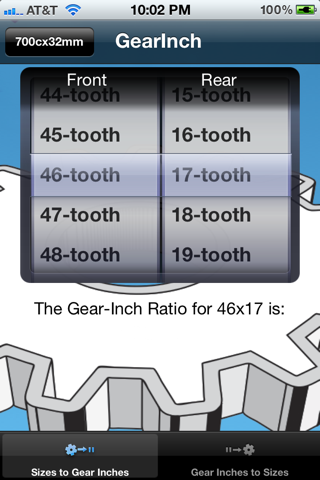
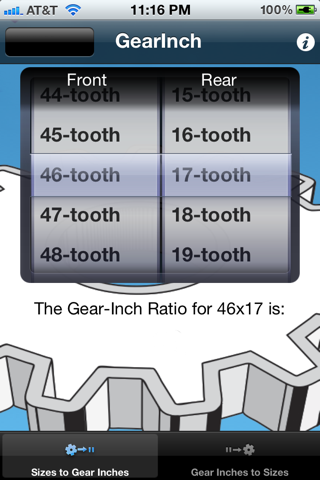
Added help page, accurate splash screen

diff --git a/GearInch/GearInchAboutViewController.m b/GearInch/GearInchAboutViewController.m
@@ -1,0 +1,79 @@
+//
+//  GearInchAboutViewController.m
+//  GearInch
+//
+//  Created by Erik Hope on 12/12/11.
+//  Copyright (c) 2011 __MyCompanyName__. All rights reserved.
+//
+
+#import "GearInchAboutViewController.h"
+#import <QuartzCore/QuartzCore.h>
+
+@implementation GearInchAboutViewController
+@synthesize textBox;
+
+
+- (id)initWithNibName:(NSString *)nibNameOrNil bundle:(NSBundle *)nibBundleOrNil
+{
+    self = [super initWithNibName:nibNameOrNil bundle:nibBundleOrNil];
+    if (self) {
+        // Custom initialization
+    }
+    return self;
+}
+
+- (void)didReceiveMemoryWarning
+{
+    // Releases the view if it doesn't have a superview.
+    [super didReceiveMemoryWarning];
+    
+    // Release any cached data, images, etc that aren't in use.
+}
+
+
+-(void)dismissAbout:(UIButton *)button
+{
+    [self dismissModalViewControllerAnimated:YES];
+}
+
+#pragma mark - View lifecycle
+
+/*
+// Implement loadView to create a view hierarchy programmatically, without using a nib.
+- (void)loadView
+{
+}
+*/
+
+
+// Implement viewDidLoad to do additional setup after loading the view, typically from a nib.
+- (void)viewDidLoad
+{
+    [super viewDidLoad];
+    textBox.layer.cornerRadius = 10;
+    textBox.alpha = 0.9;
+    textBox.layer.borderWidth = 1.0;
+    textBox.layer.shadowOffset = CGSizeMake(20.0, 20.0);
+    textBox.layer.shadowOpacity = 1;
+    textBox.layer.shadowRadius = 10;
+    textBox.layer.shadowColor = [UIColor blackColor].CGColor;
+    textBox.text = @"GearInch (c) 2011 Erik Hope \n\nWhat is a gear inch ratio? \n\nThe gear inch ratio of a bicycle is a measure of how low or high a gear is. The higher the ratio, the higher the gear, and the farther your bike travels with each rotation of the pedals. Use GearInch to determine which cog and chainwheel sizes you need to achieve your desired ratio, or to calculate what the ratio of a given cog and chainwheel is.";
+
+
+}
+
+
+- (void)viewDidUnload
+{
+    [super viewDidUnload];
+    // Release any retained subviews of the main view.
+    // e.g. self.myOutlet = nil;
+}
+
+- (BOOL)shouldAutorotateToInterfaceOrientation:(UIInterfaceOrientation)interfaceOrientation
+{
+    // Return YES for supported orientations
+    return (interfaceOrientation == UIInterfaceOrientationPortrait);
+}
+
+@end

diff --git a/GearInch/RatioToGearsViewController.m b/GearInch/RatioToGearsViewController.m
@@ -120,6 +120,7 @@ pickerBackground;
     lastSelectedRatio = row;
     int ratio = row+31;
     [self calculateSizesForRatio:ratio];
+
     [ratioList scrollToRowAtIndexPath:[NSIndexPath indexPathForRow:0 inSection:0] 
                      atScrollPosition:UITableViewScrollPositionNone animated:YES];
 }
@@ -165,10 +166,20 @@ pickerBackground;
     
     if (cell == nil) 
     {
-        cell = [[UITableViewCell alloc] initWithFrame:CGRectZero reuseIdentifier:@"cell"];
+        cell = [[UITableViewCell alloc] initWithStyle:UITableViewCellStyleDefault reuseIdentifier:@"cell"];
+
     }
     
 	return cell;
 }
+
+-(void)infoButtonClicked:(UIButton *)infoButton
+{
+    UIAlertView *alert = [[UIAlertView alloc] initWithTitle:@"GearInch"
+                                                    message:@"hi" delegate:nil cancelButtonTitle:@"OK"
+                                          otherButtonTitles:nil];
+    [alert show];
+}
+
 
 @end

diff --git a/GearInch/GearsToRatioViewController.m b/GearInch/GearsToRatioViewController.m
@@ -142,6 +142,13 @@ const int kCogComponent = 1;
 }
 
 
+-(void)infoButtonClicked:(UIButton *)infoButton
+{
+    UIAlertView *alert = [[UIAlertView alloc] initWithTitle:@"GearInch\nCopyright (c) 2011 Erik Hope."
+                                                    message:@"hi" delegate:nil cancelButtonTitle:@"OK"
+                                          otherButtonTitles:nil];
+    [alert show];
+}
 
 - (BOOL)shouldAutorotateToInterfaceOrientation:(UIInterfaceOrientation)interfaceOrientation
 {

diff --git a/GearInch/GearsToRatioViewController.h b/GearInch/GearsToRatioViewController.h
@@ -7,6 +7,7 @@
 //
 
 #import <UIKit/UIKit.h>
+
 @class GearInchSettingsViewController;
 
 @interface GearsToRatioViewController : UIViewController
@@ -16,6 +17,7 @@
     CGFloat diameter;
 }
 
+-(IBAction)infoButtonClicked:(UIButton*)infoButton;
 
 @property (strong, nonatomic) IBOutlet UIViewController *settingsViewController;
 @property (strong, nonatomic) IBOutlet UIPickerView *sizePicker;

diff --git a/GearInch/GearInchAboutViewController.h b/GearInch/GearInchAboutViewController.h
@@ -1,0 +1,17 @@
+//
+//  GearInchAboutViewController.h
+//  GearInch
+//
+//  Created by Erik Hope on 12/12/11.
+//  Copyright (c) 2011 __MyCompanyName__. All rights reserved.
+//
+
+#import <UIKit/UIKit.h>
+
+@interface GearInchAboutViewController : UIViewController
+
+-(IBAction)dismissAbout:(UIButton*)button;
+
+@property (strong, nonatomic) IBOutlet UITextView *textBox;
+
+@end

diff --git a/GearInch/RatioToGearsViewController.h b/GearInch/RatioToGearsViewController.h
@@ -21,6 +21,7 @@ UITableViewDataSource, UITableViewDelegate>
 }
 
 -(void)calculateSizesForRatio:(int)ratio;
+-(IBAction)infoButtonClicked:(UIButton *)infoButton;
 
 @property (strong, nonatomic) IBOutlet UIViewController *settingsViewController;
 @property (nonatomic, strong) IBOutlet UIPickerView *gearInchSelector;

diff --git a/GearInch/GearInchSettingsViewController.m b/GearInch/GearInchSettingsViewController.m
@@ -58,7 +58,7 @@ static NSArray *rimDiameterTexts = nil;
 {
     // Releases the view if it doesn't have a superview.
     [super didReceiveMemoryWarning];
-    
+
     // Release any cached data, images, etc that aren't in use.
 }
 

diff --git a/GearInch/GearInchSettingsViewController.h b/GearInch/GearInchSettingsViewController.h
@@ -8,6 +8,7 @@
 
 #import <UIKit/UIKit.h>
 
+
 @interface GearInchSettingsViewController : UIViewController
 {
 }
